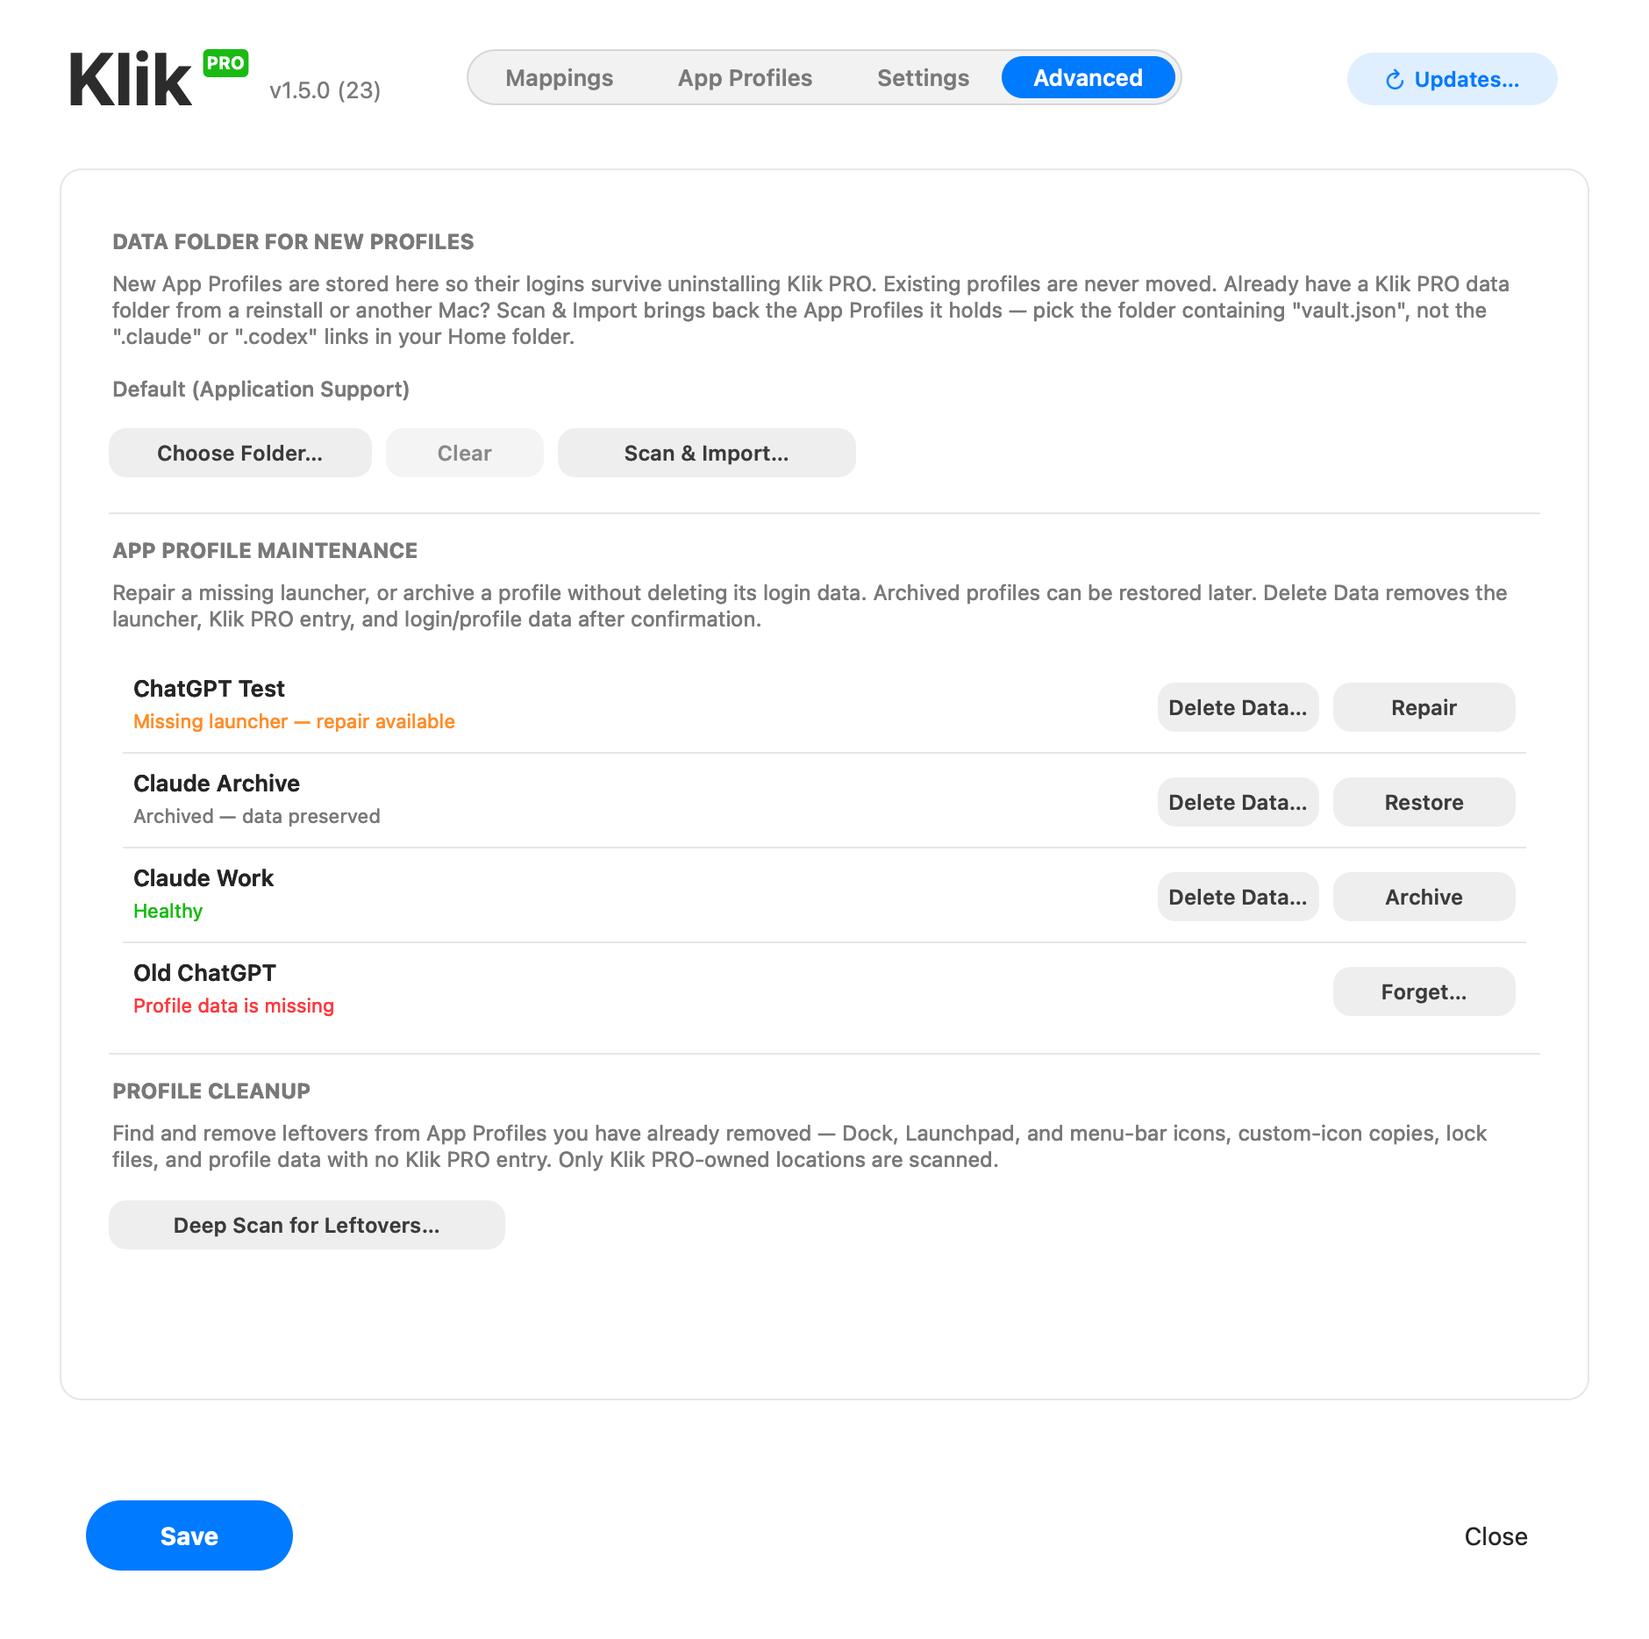
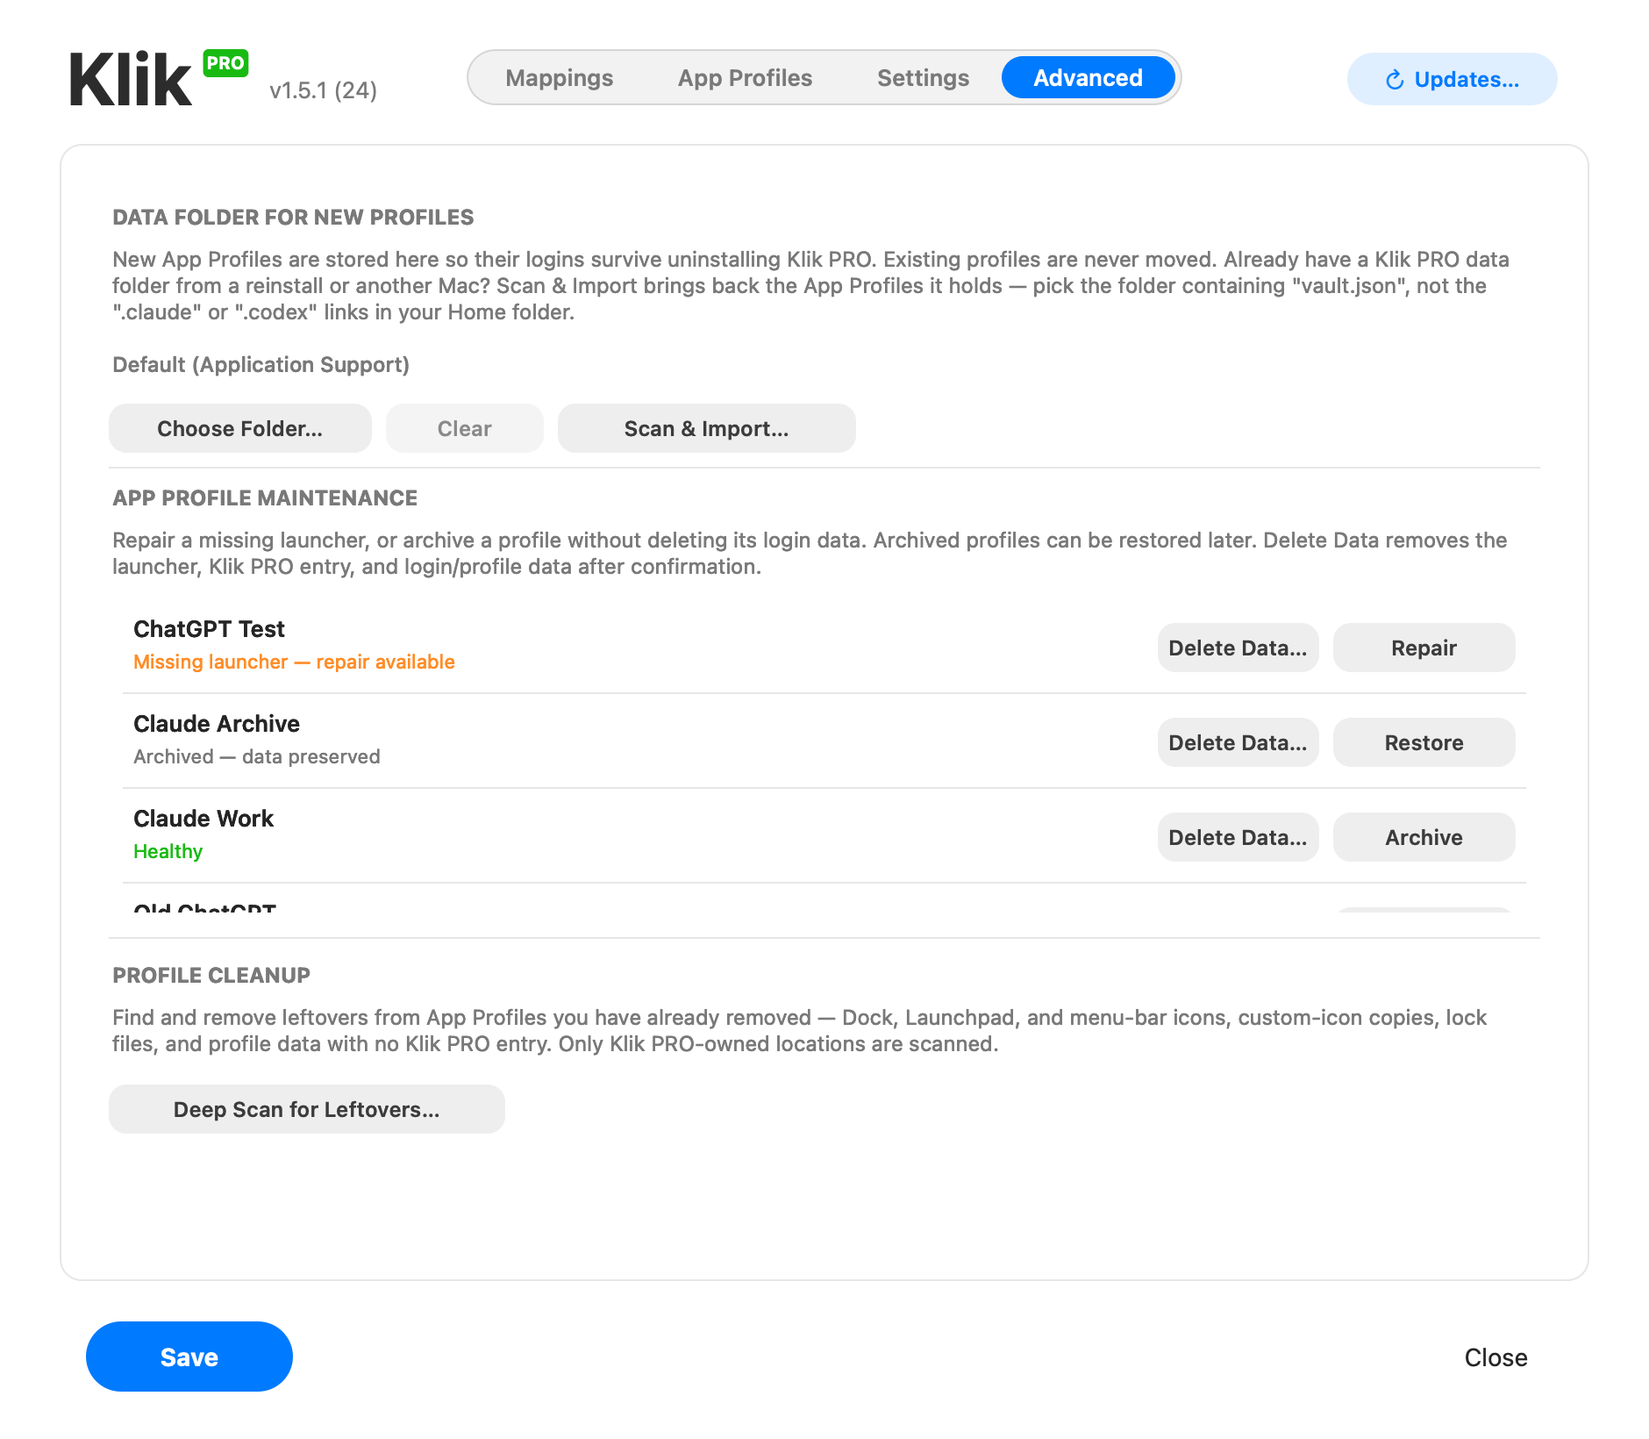
Optimize dashboard for 13-inch displays

diff --git a/Sources/KlikProApp.swift b/Sources/KlikProApp.swift
@@ -2020,15 +2020,15 @@ final class MouseProfileHeaderView: NSView {
     private let previousButton = MouseSlideNavigationButton(
         symbolName: "chevron.left",
         accessibility: "Previous mouse mapping",
-        frame: NSRect(x: 8, y: 146, width: 46, height: 52)
+        frame: NSRect(x: 8, y: 0, width: 46, height: 52)
     )
     private let nextButton = MouseSlideNavigationButton(
         symbolName: "chevron.right",
         accessibility: "Next mouse mapping",
-        frame: NSRect(x: 818, y: 146, width: 46, height: 52)
+        frame: NSRect(x: 0, y: 0, width: 46, height: 52)
     )
     private let menuButton = AppProfileGearButton(
-        frame: NSRect(x: 826, y: 12, width: 30, height: 28)
+        frame: NSRect(x: 0, y: 12, width: 30, height: 28)
     )
 
     private var profiles: [MouseProfile] = []
@@ -2062,6 +2062,13 @@ final class MouseProfileHeaderView: NSView {
 
     override init(frame frameRect: NSRect) {
         super.init(frame: frameRect)
+        let navigationY = floor((frameRect.height - previousButton.frame.height) / 2)
+        previousButton.frame.origin.y = navigationY
+        nextButton.frame.origin = NSPoint(
+            x: frameRect.width - nextButton.frame.width - 8,
+            y: navigationY
+        )
+        menuButton.frame.origin.x = frameRect.width - menuButton.frame.width - 16
         previousButton.target = self
         previousButton.action = #selector(browsePrevious)
         nextButton.target = self
@@ -2471,7 +2478,7 @@ final class MouseProfileHeaderView: NSView {
 
     override func draw(_ dirtyRect: NSRect) {
         ("Horizontal Thumb Wheel" as NSString).draw(
-            at: NSPoint(x: 380, y: 49),
+            at: NSPoint(x: 380, y: 44),
             withAttributes: [
                 .font: NSFont.systemFont(ofSize: 12, weight: .medium),
                 .foregroundColor: NSColor.appTextPrimary,
@@ -2600,7 +2607,7 @@ final class SettingsContentView: NSView {
     let thumbWheelToggle: ToggleSwitchView
     let thumbWheelBrowsers: ThumbWheelBrowsersButton
     let mouseProfileHeader = MouseProfileHeaderView(
-        frame: NSRect(x: 0, y: 0, width: 872, height: 368)
+        frame: NSRect(x: 0, y: 0, width: 872, height: 326)
     )
     private let mouseSlideContainer: MouseSlideContainerView
     var onThumbWheelToggle: ((Bool) -> Void)?
@@ -2638,9 +2645,9 @@ final class SettingsContentView: NSView {
     // The mouse-guide + callouts row is prioritised (it's the point of this tab); the
     // bottom two columns are a quick-access companion — full management lives on the
     // App Profiles tab — so the guide gets the larger share of the height.
-    static let deviceCard         = NSRect(x: 0, y: 0, width: rightCardX + rightCardW, height: 368)
+    static let deviceCard         = NSRect(x: 0, y: 0, width: rightCardX + rightCardW, height: 326)
     // Native apps + App Profiles, side by side across the full width, below the guide.
-    static let mappingBottomCard  = NSRect(x: 0, y: 384, width: rightCardX + rightCardW, height: 344)
+    static let mappingBottomCard  = NSRect(x: 0, y: 340, width: rightCardX + rightCardW, height: 308)
 
     private static func previewAppIcon(for target: QuickLaunchTarget) -> NSImage {
         let label = target == .chatGPT ? "G" : "C"
@@ -2709,8 +2716,8 @@ final class SettingsContentView: NSView {
         // doesn't sit too low against the app lists below.
         let shortcutBottomLeftX: CGFloat = 110   // bottom-left (Forward); inner edge ≈ x 300
         let shortcutBottomRightX: CGFloat = 574  // bottom-right (Gesture); symmetric
-        let shortcutTopY: CGFloat = 52    // leaves a header strip for the "Mouse Mappings" title
-        let shortcutBottomY: CGFloat = 216
+        let shortcutTopY: CGFloat = 48    // leaves a header strip for the "Mouse Mappings" title
+        let shortcutBottomY: CGFloat = 182
         middleButtonRow = RecordableShortcutRowView(
             title: "Middle Button",
             mapping: config.middleButton,
@@ -2852,13 +2859,13 @@ final class SettingsContentView: NSView {
         // is drawn as its title in draw(); the leader anchors just below it (see deviceCallouts).
         thumbWheelToggle = ToggleSwitchView(
             isOn: config.thumbWheel.enabled,
-            frame: NSRect(x: 332, y: 43, width: 40, height: 22)
+            frame: NSRect(x: 332, y: 39, width: 40, height: 22)
         )
         thumbWheelBrowsers = ThumbWheelBrowsersButton(
-            frame: NSRect(x: 380, y: 74, width: 150, height: 26)
+            frame: NSRect(x: 380, y: 68, width: 150, height: 26)
         )
 
-        super.init(frame: NSRect(x: 0, y: 0, width: width, height: 728))
+        super.init(frame: NSRect(x: 0, y: 0, width: width, height: 648))
 
         mouseSlideContainer.wantsLayer = true
         mouseSlideContainer.drawArtwork = { [weak self] card in
@@ -3158,19 +3165,19 @@ final class SettingsContentView: NSView {
 
     // fx/fy are fractions of the drawn mouse rect (top-left origin), measured on the
     // 1000x742 device artwork. controlAnchor points match the narrow corner controls set in
-    // init: the top row's inner edges are x 282 (left) / x 590 (right) with centre y 100 (the
+    // init: the top row's inner edges are x 282 (left) / x 590 (right) with centre y 96 (the
     // top row sits below the "Mouse Mappings" header strip); the bottom row is pulled in a
     // little further — the forward leader starts at x 342 (just beyond its popup) and the
-    // gesture edge is x 574, both with centre y 264. Each anchor
+    // gesture edge is x 574, both with centre y 230. Each anchor
     // is the control edge nearest the mouse, so the leader runs from there to the button.
     private static let deviceCallouts: [DeviceCallout] = [
-        DeviceCallout(title: "Middle Button (Scroll Wheel)", fx: 0.245, fy: 0.413, controlAnchor: NSPoint(x: 282, y: 100)),
+        DeviceCallout(title: "Middle Button (Scroll Wheel)", fx: 0.245, fy: 0.413, controlAnchor: NSPoint(x: 282, y: 96)),
         // The compact action popup extends past the row's nominal frame, so start the
         // leader just beyond its real right edge instead of drawing through its arrow.
-        DeviceCallout(title: "Forward Button",               fx: 0.584, fy: 0.546, controlAnchor: NSPoint(x: 342, y: 264)),
-        DeviceCallout(title: "Horizontal Thumb Wheel",       fx: 0.594, fy: 0.422, controlAnchor: NSPoint(x: 436, y: 100)),
-        DeviceCallout(title: "Back Button",                  fx: 0.692, fy: 0.447, controlAnchor: NSPoint(x: 590, y: 100)),
-        DeviceCallout(title: "Gesture Button",               fx: 0.755, fy: 0.745, controlAnchor: NSPoint(x: 574, y: 264)),
+        DeviceCallout(title: "Forward Button",               fx: 0.584, fy: 0.546, controlAnchor: NSPoint(x: 342, y: 230)),
+        DeviceCallout(title: "Horizontal Thumb Wheel",       fx: 0.594, fy: 0.422, controlAnchor: NSPoint(x: 436, y: 96)),
+        DeviceCallout(title: "Back Button",                  fx: 0.692, fy: 0.447, controlAnchor: NSPoint(x: 590, y: 96)),
+        DeviceCallout(title: "Gesture Button",               fx: 0.755, fy: 0.745, controlAnchor: NSPoint(x: 574, y: 230)),
     ]
 
     private func drawDeviceCallouts(in mouseRect: NSRect) {
@@ -4075,7 +4082,7 @@ final class ToggleWindowController: NSWindowController {
 
     init() {
         let window = NSWindow(
-            contentRect: NSRect(x: 0, y: 0, width: 940, height: 934),
+            contentRect: NSRect(x: 0, y: 0, width: 940, height: 820),
             styleMask: [.titled, .closable, .miniaturizable],
             backing: .buffered,
             defer: false
@@ -4192,14 +4199,14 @@ final class ToggleView: NSView {
     private var mouseAccessRequired = false
     private let saveButton = PrimaryHoverButton(
         title: "Save",
-        frame: NSRect(x: 48, y: 854, width: 120, height: 42)
+        frame: NSRect(x: 48, y: 752, width: 120, height: 42)
     )
     // Check-for-updates button, top-right of the header (where the status pill used to be).
     // Right edge stays at x=888; the compact "⟳ Updates…" label lets it be narrower.
     private let updateButtonRect = NSRect(x: 768, y: 30, width: 120, height: 30)
     private var updateButtonTrackingArea: NSTrackingArea?
     private var updateButtonHovered = false
-    private let closeButtonRect = NSRect(x: 808, y: 854, width: 90, height: 42)
+    private let closeButtonRect = NSRect(x: 808, y: 752, width: 90, height: 42)
     private var closeButtonTrackingArea: NSTrackingArea?
     private var closeButtonHovered = false
     // Set by a successful check when a newer release exists; lights up the header button.
@@ -4294,8 +4301,16 @@ final class ToggleView: NSView {
             caffeinateMenu: loadedConfig.caffeinateMenuEnabled,
             thumbWheel: loadedConfig.thumbWheel,
             width: 872)
-        appProfilesView = AppProfilesContentView(instances: loadedConfig.instances, width: 872)
-        advancedView = AdvancedSettingsContentView(dataRoot: loadedConfig.dataRoot, width: 872)
+        appProfilesView = AppProfilesContentView(
+            instances: loadedConfig.instances,
+            width: 872,
+            height: 648
+        )
+        advancedView = AdvancedSettingsContentView(
+            dataRoot: loadedConfig.dataRoot,
+            width: 872,
+            height: 648
+        )
 
         super.init(frame: frameRect)
         launchableInstanceIDsCache = initialLaunchableInstanceIDs
@@ -4303,7 +4318,7 @@ final class ToggleView: NSView {
         layer?.backgroundColor = NSColor.windowBackgroundColor.cgColor
 
         addSubview(headerWordmark)
-        scrollView.frame = NSRect(x: 34, y: 96, width: 872, height: 728)
+        scrollView.frame = NSRect(x: 34, y: 82, width: 872, height: 648)
         scrollView.hasVerticalScroller = false
         scrollView.autohidesScrollers = true
         scrollView.drawsBackground = false
@@ -10200,7 +10215,7 @@ final class ToggleView: NSView {
                 .font: NSFont.systemFont(ofSize: 12, weight: .semibold),
                 .foregroundColor: NSColor.systemRed
             ]
-            "Unsaved changes".draw(at: NSPoint(x: 184, y: 866), withAttributes: attrs)
+            "Unsaved changes".draw(at: NSPoint(x: 184, y: 764), withAttributes: attrs)
         }
 
         if let message = saveStatusMessage {
@@ -10208,7 +10223,7 @@ final class ToggleView: NSView {
                 .font: NSFont.systemFont(ofSize: 12),
                 .foregroundColor: NSColor.appTextSecondary
             ]
-            message.draw(at: NSPoint(x: 356, y: 866), withAttributes: attrs)
+            message.draw(at: NSPoint(x: 356, y: 764), withAttributes: attrs)
         }
     }
 

diff --git a/Sources/AppProfilesUI.swift b/Sources/AppProfilesUI.swift
@@ -1923,11 +1923,14 @@ private final class MappingSectionCardView: NSView {
         // Pin capacity and viewport size are separate product choices: only one card
         // may be sticky, while three cards remain visible without scrolling.
         let visibleRows: CGFloat = 3
-        let listHeight = visibleRows * AppCardMetrics.height
+        let threeRowsHeight = visibleRows * AppCardMetrics.height
             + (visibleRows - 1) * innerCardSpacing
         // Keep the first card close to its section title. Extra column height belongs
         // below the visible rows, not as a large dead band above them.
         let listY: CGFloat = 50
+        // On a 13-inch display the dashboard is intentionally shorter. Keep the
+        // card inside that fixed viewport and let only its app list scroll.
+        let listHeight = min(threeRowsHeight, max(0, frame.height - listY - 12))
         listView.frame = NSRect(x: 12, y: listY, width: frame.width - 24, height: listHeight)
         listView.setAccessibilityLabel("\(title) list")
 
@@ -2210,7 +2213,7 @@ final class AppProfilesContentView: NSView {
 
     override var isFlipped: Bool { true }
 
-    init(instances: [AppProfileInstance], width: CGFloat) {
+    init(instances: [AppProfileInstance], width: CGFloat, height: CGFloat = 648) {
         let generatorColumnWidth = floor(width * Self.generatorColumnRatio)
         let generatorListWidth = generatorColumnWidth - 36
         let generatorWidth = AppCardListView.contentWidth(for: generatorListWidth)
@@ -2224,7 +2227,7 @@ final class AppProfilesContentView: NSView {
         }
         // Match the outer scroll viewport so the profiles column fills the window rather
         // than leaving empty space below a fixed-height card.
-        super.init(frame: NSRect(x: 0, y: 0, width: width, height: 702))
+        super.init(frame: NSRect(x: 0, y: 0, width: width, height: height))
 
         explanationField.frame = NSRect(
             x: 18, y: Self.headerTopY + 26, width: generatorListWidth, height: 64
@@ -2600,8 +2603,8 @@ final class AdvancedSettingsContentView: NSView {
 
     override var isFlipped: Bool { true }
 
-    init(dataRoot: String?, width: CGFloat) {
-        super.init(frame: NSRect(x: 0, y: 0, width: width, height: 702))
+    init(dataRoot: String?, width: CGFloat, height: CGFloat = 648) {
+        super.init(frame: NSRect(x: 0, y: 0, width: width, height: height))
 
         // Locked state, centred. The lock icon is a pressable button.
         let iconConfig = NSImage.SymbolConfiguration(pointSize: 40, weight: .regular)
@@ -2646,24 +2649,24 @@ final class AdvancedSettingsContentView: NSView {
         scanButton.onPress = { [weak self] in self?.onScanAndImport?() }
 
         // Section 2 — Maintenance rows for the profiles Klik PRO still tracks.
-        styleSectionLabel(maintenanceLabel, frame: NSRect(x: 28, y: 210, width: width - 56, height: 16))
-        styleBody(maintenanceBody, frame: NSRect(x: 28, y: 234, width: width - 56, height: 36))
-        maintenanceScroll.frame = NSRect(x: 28, y: 280, width: width - 56, height: 204)
+        styleSectionLabel(maintenanceLabel, frame: NSRect(x: 28, y: 194, width: width - 56, height: 16))
+        styleBody(maintenanceBody, frame: NSRect(x: 28, y: 218, width: width - 56, height: 36))
+        maintenanceScroll.frame = NSRect(x: 28, y: 260, width: width - 56, height: 178)
         maintenanceScroll.drawsBackground = false
         maintenanceScroll.hasVerticalScroller = true
         maintenanceScroll.autohidesScrollers = true
         maintenanceScroll.documentView = maintenanceDocument
 
         // Section 3 — Profile cleanup for what removed profiles left behind.
-        styleSectionLabel(cleanupLabel, frame: NSRect(x: 28, y: 518, width: width - 56, height: 16))
-        styleBody(cleanupBody, frame: NSRect(x: 28, y: 542, width: width - 56, height: 36))
-        deepScanButton.frame = NSRect(x: 28, y: 588, width: 226, height: 28)
+        styleSectionLabel(cleanupLabel, frame: NSRect(x: 28, y: 466, width: width - 56, height: 16))
+        styleBody(cleanupBody, frame: NSRect(x: 28, y: 490, width: width - 56, height: 36))
+        deepScanButton.frame = NSRect(x: 28, y: 536, width: 226, height: 28)
         deepScanButton.toolTip =
             "Find and remove leftover Dock, Launchpad, and menu-bar icons, custom-icon "
             + "copies, lock files, and data folders from profiles you've removed."
         deepScanButton.onPress = { [weak self] in self?.onDeepScan?() }
 
-        statusField.frame = NSRect(x: 28, y: 634, width: width - 56, height: 40)
+        statusField.frame = NSRect(x: 28, y: 578, width: width - 56, height: 40)
         statusField.font = .systemFont(ofSize: 12)
         statusField.textColor = .appTextSecondary
 
@@ -2914,8 +2917,8 @@ final class AdvancedSettingsContentView: NSView {
         // A hairline divider between each of the three sections, only while unlocked.
         if !isLocked {
             NSColor.separatorColor.setFill()
-            NSBezierPath(rect: NSRect(x: 28, y: 196, width: bounds.width - 56, height: 1)).fill()
-            NSBezierPath(rect: NSRect(x: 28, y: 504, width: bounds.width - 56, height: 1)).fill()
+            NSBezierPath(rect: NSRect(x: 28, y: 184, width: bounds.width - 56, height: 1)).fill()
+            NSBezierPath(rect: NSRect(x: 28, y: 452, width: bounds.width - 56, height: 1)).fill()
         }
     }
 }

diff --git a/tools/MouseSlideHitTestMain.swift b/tools/MouseSlideHitTestMain.swift
@@ -66,7 +66,7 @@ private struct MouseSlideHitTestMain {
             frame: NSRect(x: 0, y: 0, width: card.width, height: 640)
         )
         let document = HostView(
-            frame: NSRect(x: 0, y: 0, width: card.width, height: 728)
+            frame: NSRect(x: 0, y: 0, width: card.width, height: 648)
         )
         let container = MouseSlideContainerView(frame: card)
 

diff --git a/docs/HANDOFF_NEXT_UPDATE_v1.5.0.md b/docs/HANDOFF_NEXT_UPDATE_v1.5.0.md
@@ -45,22 +45,33 @@ dominant idle cost. The stable poll now compares cheap profile-file fingerprints
 and performs full health validation only after a relevant change; managed launch
 actions continue to revalidate independently and fail closed.
 
-Last full verification after the performance change:
+The dashboard is now sized for a 13-inch MacBook:
+
+- fixed content size: `940 × 820` points (previously `940 × 934`);
+- fixed dashboard viewport: `872 × 648` points, with no outer vertical scroller;
+- the Mappings mouse guide and its callouts use a compact 326-point card;
+- Native Apps, App Profiles, and Advanced maintenance are the only vertically
+  scrolling areas; and
+- all tracked dashboard screenshots and the App Profiles showcase were
+  re-rendered at the compact geometry.
+
+Last full verification after the compact-dashboard change:
 
 ```text
 ./tools/xcode-dev.sh check
 All checks passed
-build/check-20260728-194134
+build/check-20260728-200050
 ```
 
 ## Private owner-test package
 
-A private universal v1.5.1 build was created locally after the optimization:
+A private universal v1.5.1 build was recreated locally after the compact
+dashboard change:
 
 - DMG: `releases/Klik-PRO-v1.5.1-macos-universal.dmg`
[2 lines of base64/hex data omitted]
 - ZIP: `releases/Klik-PRO-v1.5.1-macos-universal.zip`
[2 lines of base64/hex data omitted]
 - Both checksum manifests and the local installer manifest have valid signatures
   from the checked-in Klik PRO release key.
 - `install-klik-pro.sh --verify-only` passed every authenticity and integrity

diff --git a/CHANGELOG.md b/CHANGELOG.md
@@ -10,6 +10,9 @@ All notable changes to Klik PRO are documented here.
 - Removed unchanged-state full code-signature rescans from the helper's
   five-second availability poll. Full validation still runs at startup, after
   relevant profile files change, and before every managed launch.
+- Reduced the dashboard to a 940×820-point window that fits 13-inch MacBook
+  displays without an outer vertical scrollbar. Native Apps, App Profiles, and
+  Advanced maintenance retain independent scrolling inside their list panels.
 
 ## 1.5.0
 
